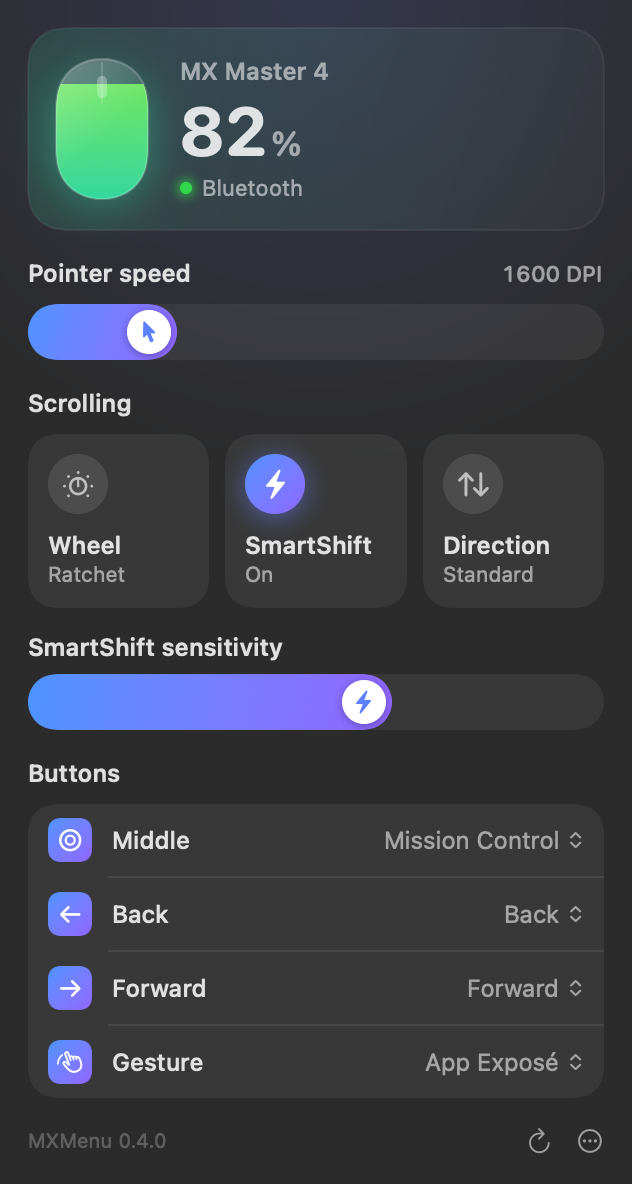
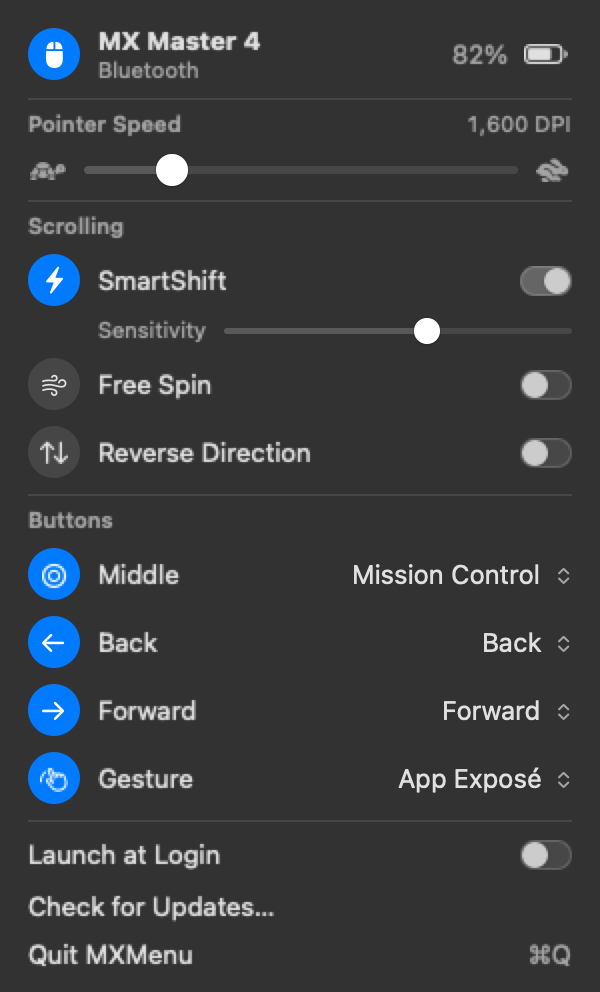
Update README screenshot and link the design rules
Claude-Session: https://claude.ai/code/session_0145vhAtby92HHwJhftyCZL9

diff --git a/README.md b/README.md
@@ -2,7 +2,7 @@
 
 A small macOS menu-bar app for the Logitech MX Master 4 (and 3 / 3S). It talks to the mouse directly over Logitech's HID++ protocol, so it works without Logi Options+.
 
-<p align="center"><img src="docs/screenshot.png" alt="MXMenu panel showing an MX Master 4 on Bluetooth at 82% battery, pointer speed 1,600 DPI, ratchet scrolling with SmartShift, and button actions" width="340"></p>
+<p align="center"><img src="docs/screenshot.png" alt="MXMenu panel showing an MX Master 4 on Bluetooth at 82% battery, pointer speed 1,600 DPI, ratchet scrolling with SmartShift, and button actions" width="300"></p>
 
 The menu bar shows the battery percentage next to a mouse icon. From the panel you can see the battery level and charging state, set the pointer speed, switch the scroll wheel between ratchet and free spin, tune SmartShift, and reverse the wheel direction on the mouse only (so the trackpad keeps natural scrolling). The middle, back, forward and thumb gesture buttons can be remapped to Mission Control, App Exposé, Show Desktop, switching Desktops, Back / Forward, Play / Pause, an area screenshot, copy, paste or undo.
 
@@ -60,6 +60,10 @@ To publish a new version, commit your changes and run:
 ```
 
 That tags the commit and pushes the tag. GitHub Actions builds the app with that version and creates the release with `MXMenu.zip` attached. Bumping `CFBundleShortVersionString` in `Support/Info.plist` and pushing to `main` releases that version too.
+
+## Design
+
+The panel follows the look of macOS's own Bluetooth and Battery menus: native controls, system colours, and grouped rows. The rules are in [docs/DESIGN.md](docs/DESIGN.md).
 
 ## How it works
 
